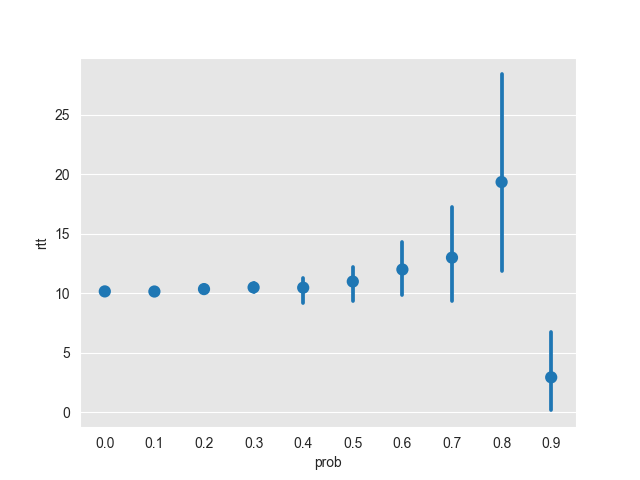
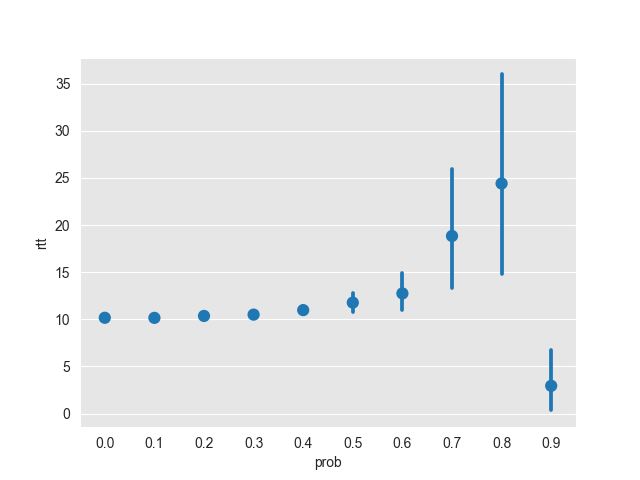
gbn more stuff

diff --git a/pa2part2correct/plot.py b/pa2part2correct/plot.py
@@ -1,8 +1,8 @@
 import numpy as np
 import pandas as pd
 import seaborn as sns
-import warnings
 import os
+import warnings
 
 warnings.filterwarnings("ignore")
 
@@ -15,11 +15,11 @@ def conf_interval(arr, Z=1.96):
     return f'{lower:.2f}', f'{upper:.2f}'
 
 
-def cout_conf_interval(df, Z=1.96):
+def cout_conf_interval(df, Z=1.96, col=1):
     d = {}
     for i in range(10):
         start = i*20
-        arr = df.iloc[start:(start+20), 0]
+        arr = df.iloc[start:(start+20), col]
         inter = conf_interval(arr, Z)
         d[f'0.{i}'] = inter
         print(f'0.{i}', inter)
@@ -31,34 +31,34 @@ if __name__ == '__main__':
     if not os.path.exists('../plots'):
         os.makedirs('../plots')
 
+    namelist=['ave_cmt', 'prob', 'rands', 'rtt', 'retrans','tput','gput']
 
     sns.set_style("darkgrid", {"axes.facecolor": ".9"})
 
-    data = pd.read_csv('corrupt_exp', names=['ave_cmt', 'prob', 'rands', 'rtt', 'retrans'])
+    data = pd.read_csv('corrupt_exp', names=namelist)
     data = data.iloc[:, :2]
-    print("corrupt case interval")
-    cout_conf_interval(data)
+    print("GBN corruption vs communication time")
+    cout_conf_interval(data,col=0)
     plot = sns.pointplot('prob', 'ave_cmt', data=data, dodge=True, join=True)
     fig = plot.get_figure()
     fig.savefig('../plots/p2plot_cor_cmt.png')
 
     fig.clf()
 
-    data = pd.read_csv('drop_exp', names=['ave_cmt', 'prob', 'rands', 'rtt', 'retrans'])
+    data = pd.read_csv('drop_exp', names=namelist)
     data = data.iloc[:, :2]
-    print("loss case interval")
-    cout_conf_interval(data)
+    print("GBN loss vs communication time")
+    cout_conf_interval(data,col=0)
     plot = sns.pointplot('prob', 'ave_cmt', data=data, dodge=True, join=True)
     fig = plot.get_figure()
     fig.savefig('../plots/p2plot_drop_cmt.png')
 
     fig.clf()
 
-    data = pd.read_csv('drop_exp', names=['ave_cmt', 'prob', 'rands', 'rtt', 'retrans'])
+    data = pd.read_csv('drop_exp', names=namelist)
     data.fillna(0, inplace=True)
     data = data.iloc[:, [1,3]]
-    data.loc[data['rtt'] > 100, 'rtt'] = 0
-    print("loss case interval")
+    print("GBN loss vs RTT")
     cout_conf_interval(data)
     plot = sns.pointplot('prob', 'rtt', data=data, dodge=True, join=False)
     fig = plot.get_figure()
@@ -66,11 +66,10 @@ if __name__ == '__main__':
 
     fig.clf()
 
-    data = pd.read_csv('corrupt_exp', names=['ave_cmt', 'prob', 'rands', 'rtt', 'retrans'])
-    data.fillna(0, inplace=True)
+    data = pd.read_csv('corrupt_exp', names=namelist)
     data = data.iloc[:, [1,3]]
-    data.loc[data['rtt'] > 100, 'rtt'] = 0
-    print("loss case interval")
+    data.fillna(0, inplace=True)
+    print("GBN corrupt vs RTT")
     cout_conf_interval(data)
     plot = sns.pointplot('prob', 'rtt', data=data, dodge=True, join=False)
     fig = plot.get_figure()
@@ -79,9 +78,9 @@ if __name__ == '__main__':
 
     fig.clf()
 
-    data = pd.read_csv('drop_exp', names=['ave_cmt', 'prob', 'rands', 'rtt', 'retrans'])
+    data = pd.read_csv('drop_exp', names=namelist)
     data = data.iloc[:, [1,4]]
-    print("loss case interval")
+    print("GBN loss vs num retransmission")
     cout_conf_interval(data)
     plot = sns.pointplot('prob', 'retrans', data=data, dodge=True, join=True)
     fig = plot.get_figure()
@@ -89,10 +88,56 @@ if __name__ == '__main__':
 
     fig.clf()
 
-    data = pd.read_csv('corrupt_exp', names=['ave_cmt', 'prob', 'rands', 'rtt', 'retrans'])
+    data = pd.read_csv('corrupt_exp', names=namelist)
     data = data.iloc[:, [1,4]]
-    print("loss case interval")
+    print("GBN corrupt vs num retransmission")
     cout_conf_interval(data)
     plot = sns.pointplot('prob', 'retrans', data=data, dodge=True, join=True)
     fig = plot.get_figure()
     fig.savefig('../plots/p2plot_cor_retrans.png')
+
+
+   ## Tput 
+
+    fig.clf()
+
+    data = pd.read_csv('drop_exp', names=namelist)
+    data = data.iloc[:, [1,5]]
+    print("GBN loss vs tput")
+    cout_conf_interval(data)
+    plot = sns.pointplot('prob', 'tput', data=data, dodge=True, join=True)
+    fig = plot.get_figure()
+    fig.savefig('../plots/p2plot_drop_tput.png')
+
+    fig.clf()
+
+    data = pd.read_csv('corrupt_exp', names=namelist)
+    data = data.iloc[:, [1,5]]
+    print("GBN corrupt vs tput")
+    cout_conf_interval(data)
+    plot = sns.pointplot('prob', 'tput', data=data, dodge=True, join=True)
+    fig = plot.get_figure()
+    fig.savefig('../plots/p2plot_cor_tput.png')
+
+
+    # gput
+
+    fig.clf()
+
+    data = pd.read_csv('drop_exp', names=namelist)
+    data = data.iloc[:, [1,6]]
+    print("GBN loss vs gput")
+    cout_conf_interval(data)
+    plot = sns.pointplot('prob', 'gput', data=data, dodge=True, join=True)
+    fig = plot.get_figure()
+    fig.savefig('../plots/p2plot_drop_gput.png')
+
+    fig.clf()
+
+    data = pd.read_csv('corrupt_exp', names=namelist)
+    data = data.iloc[:, [1,6]]
+    print("GBN corrupt vs gput")
+    cout_conf_interval(data)
+    plot = sns.pointplot('prob', 'gput', data=data, dodge=True, join=True)
+    fig = plot.get_figure()
+    fig.savefig('../plots/p2plot_cor_gput.png')
